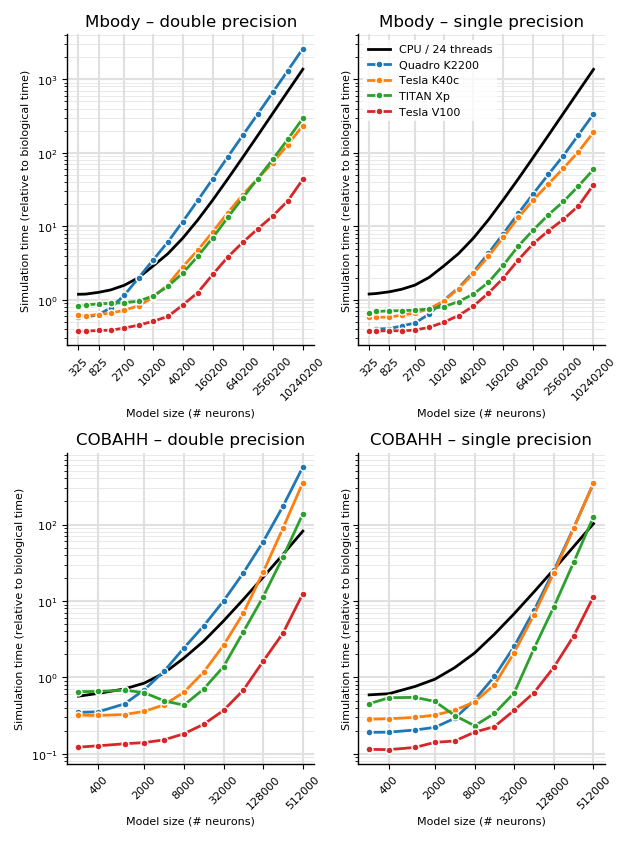
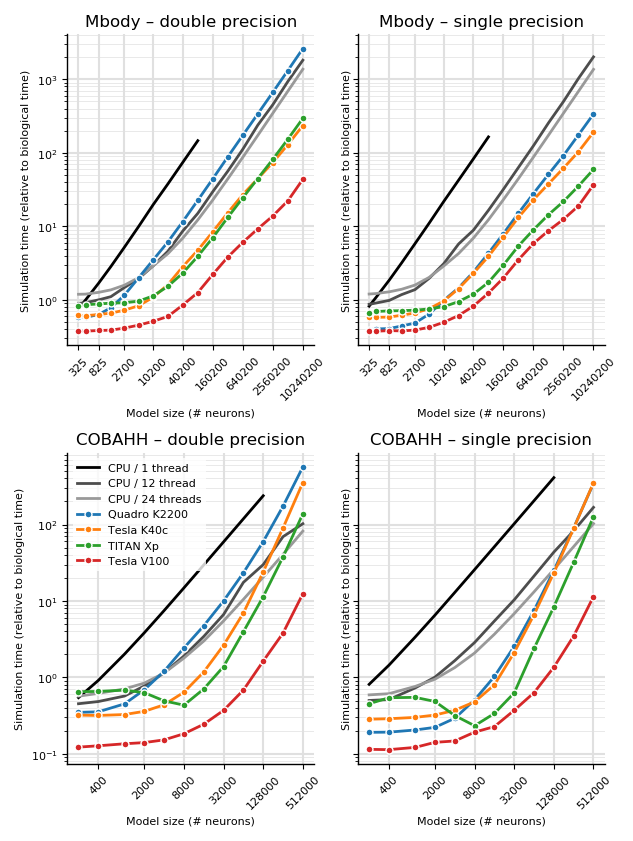
Include more CPU threads in comparison plots

diff --git a/plot_comparisons.py b/plot_comparisons.py
@@ -23,9 +23,11 @@ def plot_total_comparisons(benchmarks, machine_names, GPU_names, ax, title, lege
         max_threads = benchmark.loc[benchmark['device'] == 'cpp_standalone']['n_threads'].max()
         gpu_results = benchmark.loc[(benchmark['device'] == 'genn') & (benchmark['n_threads'] == 0)]
         cpu_results = benchmark.loc[(benchmark['device'] == 'cpp_standalone') & (benchmark['n_threads'] == max_threads)]
+        cpu_results_single = benchmark.loc[(benchmark['device'] == 'cpp_standalone') & (benchmark['n_threads'] == 1)]
 
         for subset, name, ls in [(gpu_results, '{} – {}'.format(machine_name, GPU_name), '-'),
-                                 (cpu_results, '{} – {} CPU cores'.format(machine_name, max_threads), ':')]:
+                                 (cpu_results, '{} – {} CPU cores'.format(machine_name, max_threads), ':'),
+                                 (cpu_results_single, '{} – single thread'.format(machine_name), ':')]:
             if len(subset) == 0:
                 continue
             ax.plot(np.log(subset['n_neurons'].values),
@@ -52,12 +54,14 @@ def plot_total_comparisons(benchmarks, machine_names, GPU_names, ax, title, lege
         ax.legend(loc='upper left', frameon=True, edgecolor='none')
 
 
-def plot_total_comparisons_only_GPU(benchmarks, reference_benchmark, GPU_names,
-                                    reference_label, ax, title, legend=False):
+def plot_total_comparisons_only_GPU(benchmarks, reference_benchmarks, GPU_names,
+                                    reference_labels, ax, title, legend=False):
     colors = mpl.cm.tab10.colors
-    ax.plot(np.log(reference_benchmark['n_neurons'].values),
-            reference_benchmark['duration_run_rel']['amin'],
-            '-', label=reference_label, color='black')
+    for idx, (reference_benchmark, reference_label) in enumerate(zip(reference_benchmarks, reference_labels)):
+        c = (0.3*idx, 0.3*idx, 0.3*idx)
+        ax.plot(np.log(reference_benchmark['n_neurons'].values),
+                reference_benchmark['duration_run_rel']['amin'],
+                '-', label=reference_label, color=c)
 
     for idx, (benchmark, machine_name, GPU_name) in enumerate(zip(benchmarks,
                                                                   machine_names,
@@ -193,12 +197,21 @@ if __name__ == '__main__':
                 reference = mean_and_std_fixed_time(load_benchmark(reference_dir, fname),
                                                     monitor=monitor,
                                                     float_dtype=float_dtype)
-                reference = reference.loc[(reference['device'] == 'cpp_standalone') &
-                                          (reference['n_threads'] == 24)]
-                plot_total_comparisons_only_GPU(benchmarks, reference,
-                                                gpu_names, 'CPU / 24 threads',
+                reference24 = reference.loc[(reference['device'] == 'cpp_standalone') &
+                                            (reference['n_threads'] == 24)]
+                reference12 = reference.loc[(reference['device'] == 'cpp_standalone') &
+                                           (reference['n_threads'] == 12)]
+                reference1 = reference.loc[(reference['device'] == 'cpp_standalone') &
+                                           (reference['n_threads'] == 1)]
+                plot_total_comparisons_only_GPU(benchmarks, [reference1,
+                                                             reference12,
+                                                             reference24],
+                                                gpu_names,
+                                                ['CPU / 1 thread',
+                                                 'CPU / 12 thread',
+                                                 'CPU / 24 threads'],
                                                 ax, title + ' – ' + precision,
-                                                legend=(ax == axes_gpu[0, 1]))
+                                                legend=(ax == axes_gpu[1, 0]))
         fig.tight_layout()
         fig.savefig(os.path.join(target_dir,
                                  'runtime_comparison{}.png'.format(monitor_str)))
